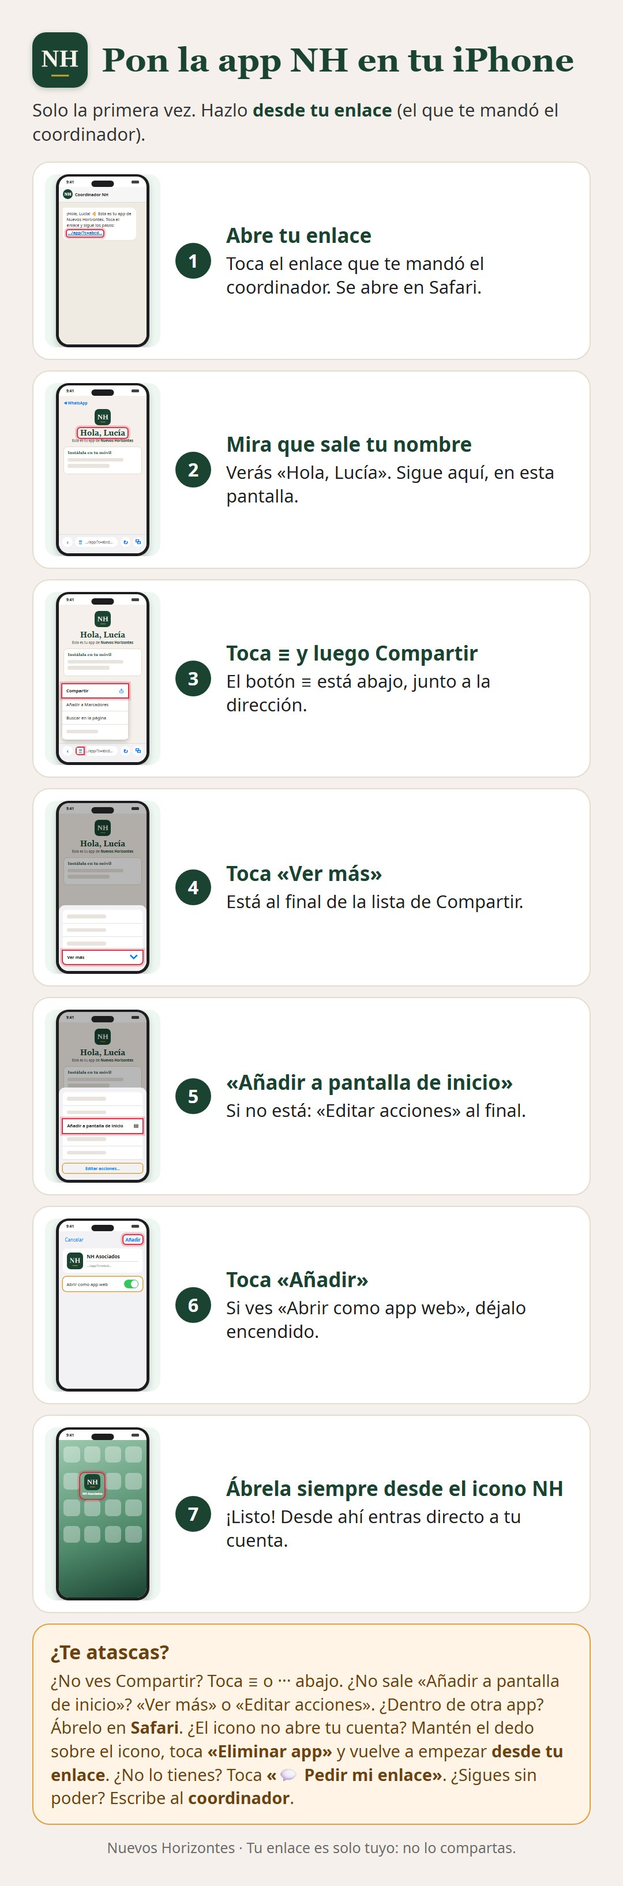
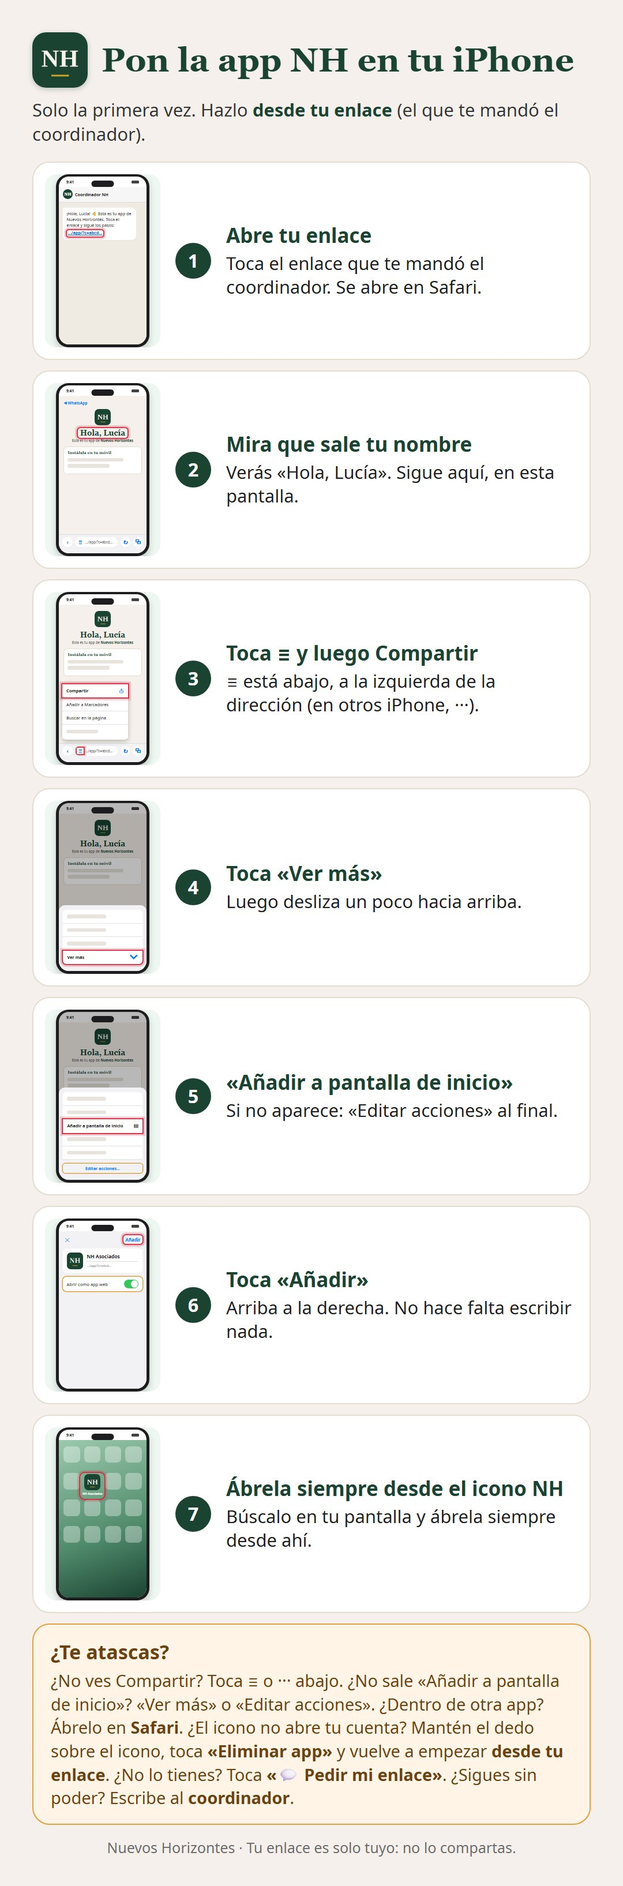
v46.62 — Pasos de instalar en iPhone según la grabación real (solo textos)
- Paso 1: ≡ abajo, a la izquierda de la dirección (en otros iPhone, ···).
- Paso 2: tras «Ver más», desliza un poco hacia arriba.
- Paso 3: «Añadir» arriba a la derecha, sin escribir nada; luego busca el icono NH Asociados.
- WhatsApp del enlace: «(si no salen, toca «Ponla en tu móvil»)».
- app/instalar/iphone.jpg con la lámina nueva. Sin cambios de lógica.

diff --git a/js/datos.js b/js/datos.js
@@ -6,7 +6,7 @@ const MONTHS=["Ene","Feb","Mar","Abr","May","Jun","Jul","Ago","Sep","Oct","Nov",
 const MONTHS_FULL=["Enero","Febrero","Marzo","Abril","Mayo","Junio","Julio","Agosto","Septiembre","Octubre","Noviembre","Diciembre"];
 const YEARS=[2025,2026,2027,2028];
 const DATA_VERSION=11; // versión del esquema/datos; independiente de APP_VERSION
-const APP_VERSION="v46.61"; // v46.61 (retoques de «Instálala en tu móvil», 19/11/2026; textos iguales a las tarjetas): pasos cortos, como mucho 2 frases (iPhone: ··· → Compartir; «Añadir a pantalla de inicio» o «Editar acciones»; «si ves Abrir como app web, déjalo encendido» y «Añadir». Android: ⋮ → «Instalar y crear acceso directo» (o «Instalar aplicación») → «Instalar»); lo excepcional en el bloque «¿Te atascas?» (nhaAtascoHTML, con Samsung Internet); el botón verde de Android, debajo, como atajo; Chrome en iPhone ya no recibe «Abrir en Safari» (sin CriOS, retoque 3). Prueba real en iPhone (19/11, iOS 27.2.1): WhatsApp abre en Safari; la barra de Safari tiene ≡ y Compartir pide «Ver más» → pasos de iPhone al día; el aviso «Abrir en Safari» solo si el navegador no es Safari y la app no está instalada (retoque 4, solo para el aviso), y en Safari «¿No ves los botones? Están en la barra de abajo: toca ≡ o ···»; los avisos breves de la app de asociados salen abajo (tapaban «Hola, …»). Antes: v46.60 // v46.60 (encargo «instalación de la app de asociados», 19/11/2026): «Ver cómo instalarla» y los pasos de la bienvenida se ven en la MISMA pantalla (hoja nhaInstPanelHTML, app/app.js): antes llevaban a instalar/, sin el código, y el icono creado desde allí no abría la cuenta. Pasos solo del móvil de cada uno (nhaPasosHTML): iPhone ··· → Compartir → «Añadir a pantalla de inicio» → Añadir, con una flecha animada hacia los botones de Safari; Android, camino principal ⋮ → «Instalar aplicación» → Instalar (el botón verde solo si Chrome lo ofrece: su aviso automático necesita un service worker, regla crítica 4). Aviso «¿No ves cómo instalarla? Toca ··· / ⋮ y elige Abrir en Safari / Chrome». Al abrir desde el icono: «✅ Tu app está lista» la primera vez; sin código, cómo arreglarlo (iPhone: borrar el icono y reinstalar desde el enlace; Android: abrir una vez el enlace en Chrome). instalar/ avisa de que desde ahí no se instala. Antes: v46.59 // v46.59 (Ángel 18/11/2026 20:01 y 20:03: las dos apps se adaptan solas a cualquier pantalla y letra): cuadro «Puedes pedir hoy» del simulador con el título en una línea, «Permanencia» y «Aporte» con el dato debajo, en verde «Puedes pedir · Cuotas · Cada cuota» cada dato bajo su nombre y «Terminas de pagar en …»; filas «nombre · dato» que bajan de línea, nombres y pestañas sin cortar, botones que pasan a la línea siguiente y cifras grandes con clamp() (css/nh.css y app/app.css, bloque «DISEÑO QUE SE ADAPTA SOLO»); verificar_app.js con la prueba obligatoria «pantallas y letra» (320, 375, 430 y 768 px; letra normal y +30 %). Sin cambios de cálculos. Además (Ángel 20:08): en el paso 3 del simulador, campo para escribir la cantidad exacta con − y + de 50 en 50 y teclado numérico (simgEscribe, simgPaso; si pasa de su límite, «Para X € puedes:»); botones de importe y de cuotas de 48 px y foco visible; el resultado y el cuadro «Puedes pedir hoy» se anuncian al lector de pantalla (aria-live, _simgAnunciar). Antes: v46.58 // v46.58 (encargo «ajustes-simulador-ayuda», Maestro v18.84): 12 meses con 100 € o más, hasta 11 cuotas (REGLAS.CUOTAS_12_100; con 12 meses nunca caben 12, AY-1 y AY-3); simulador guiado: el paso 3 arranca en lo que puede pedir hoy con sus cuotas máximas, el cuadro verde no repite la cifra mientras la permanencia y el aporte son los suyos («Cambia la permanencia o el aporte y mira hasta dónde llegas») y avisa «Esta ayuda la revisa antes el coordinador» por encima de 1.000 € o de 12 cuotas (AY-5); Asociado Libre con 500 € y 5 cuotas (limiteAyudaDe/cuotasMaxDe, _simgFuera; antes salía con 700 €); app de asociados: la cifra en el botón «¿Cuánto puedo pedir?» de Inicio (nhaPedirBotonHTML) y más espacio bajo el contenido (la barra de abajo tapaba el último botón con la letra grande del iPhone). Antes: v46.57 // v46.57 (ficha «aviso-nombre-repetido-asociado», opción C, y vuelta tras salir, SA-6/SA-8): el alta no crea a nadie con el nombre de otra persona (asociado o tercero; mismo criterio que la auditoría, control 7, y que al renombrar); aviso en el formulario, sin confirm(): asociado ↔ tercero sigue con «Convertir en asociado»; quien salió y ya cobró su salida puede volver con «Darle de alta de nuevo» (dos toques): ficha nueva y la antigua pasa a «Nombre (salió mmm. aaaa)» con todo su historial; con la salida sin pagar no se crea nada (_altaCoincide, js/personas.js). Antes: v46.56 // v46.56 (Maestro v18.82 · AY-10, AY-5, AY-8, encargo «Tu ayuda crece con tu aporte»): límite y cuotas según permanencia y aporte (limiteAyudaCon, cuotasMaxCon, aporteQueCuenta en js/reglas.js; js/maestro.js VECES_*, CUOTAS_*, tope 2.000 €, cuotas máx. 15, aviso de aprobación por encima de 1.000 € o 12 cuotas); compromiso de mantener el aporte (aporteAlto); una sola ayuda como tercero (solicitudes desde el 01/12/2026); simulador guiado en las dos apps (simGuiadoHTML, js/ayudas.js; «Quiero…» solo en la de asociados; terceros con «Sin asociarme»); fuera la tarjeta «Dos llaves» y la palabra «llave»; info/ con la tabla nueva. Antes: v46.55 // v46.55 (Maestro v18.80 · AY-9, encargo «lista de espera», 2.ª parte): app de asociados, tarjeta «Tu solicitud de ayuda» en Inicio (nhaSolicitudHTML, app/app.js; vista previa «Asociado» y «AsociadoSiguiente»): importe, cuotas y cómo va (la pediste · el coordinador la ha apuntado · «En espera: cuando esté lista, te avisamos por WhatsApp»; si pasó de mes, etiqueta «Sigue en la lista» y «Sigue en la lista, de las primeras: no tienes que pedirla otra vez»; si no se otorga, la tarjeta desaparece: textos de Ángel del 17/11/2026, sin fechas ni hablar de falta de dinero); nunca su puesto ni las de otros. «Cambiar o anular mi solicitud» envía una petición (tipo solicitud); en tu app llega a Ayudas («Cambios pedidos en solicitudes», Aplicar / No; solo si la solicitud es de quien lo pide y el cambio pasa validarApoyo; so.camUlt, so.anulada). La ficha privada lleva de su solicitud pedida, historial (mes, a, motivo), camUlt y anulada. Reglas de Firebase v46.55. // v46.54 (Maestro v18.80 · AY-9, encargo «lista de espera», 1.ª parte): Ayudas › Solicitudes: botón «Otorgar las N que alcanzan» (resumen con quién, cuánto, cuotas y quién entrega; las de más de 1.000 € marcadas como aprobación AY-5; dos toques; registra cada una con registrarAyudaAprobada, lo mismo que «Otorgar»; ids de ayuda únicos aunque se registren seguidas); en la que no alcanza, «Pasar a <mes siguiente>» (la primera de su grupo, con su fecha original y so.historial) y «Aporte temporal» (elige quién lo pone y abre el aporte puntual con lo que falta; límites de AT-1, 100–2.000 €, antes 500–3.000); «Lo que se queda sin atender» (este mes y media de hasta 3 meses). Las peticiones de la app guardan la fecha en que se pidieron (pedida). // v46.53 (Maestro v18.77 · AY-10, encargo «Dos llaves», 2.ª parte): app de asociados, tarjeta «🔑 Dos llaves» en Inicio (nhaDosLlavesHTML, app/app.js): su límite de hoy, qué llave tiene, la tabla 500 / 1.000 / 2.000 € con «Tú hoy» y solo los botones de lo que le falta («Quiero pasar a 24 meses», «Quiero subir mi aporte a 100 €»), que envían una petición (tipo perm / aporte) con dos toques; lo pedido se recuerda hasta que llega la respuesta (m.cambioUlt). Sin opción de bajar el aporte (se habla con el coordinador, AP-4). Las preguntas frecuentes dicen las tres filas de las dos llaves (en la v46.52 decían 2.000 € para todos con 24 o 36 meses). // v46.52 (Maestro v18.75 · AY-10, encargo «Dos llaves», 1.ª parte): las dos llaves. Límite de una ayuda a un asociado: 500 € con 12 meses, 1.000 € con 24/36/indefinida, 2.000 € con además aporte habitual de 100 € o más y el último mes pagado a 100 € (limiteAyudaDe, tieneLlave2; tope 2.000 €, antes 3.000 €). validarApoyo y la auditoría lo aplican; la ayuda guarda aporteEnConcesion y llave2 (AY-2). Solicitudes propone el orden por aporte habitual (AY-9; ▲▼ sigue mandando). Inicio: «🔑 Dos llaves · cambios pedidos» (aporte y permanencia pedidos desde la app, Aprobar / No aprobar; m.cambioUlt). No deja bajar el aporte con una ayuda de más de 1.000 € con la llave 2 sin terminar; el cierre avisa si ese mes paga menos de 100 € (decide el coordinador). Simulador: barra hasta 2.000 € con las dos llaves (1.000 € los demás) y límites de cada persona. // v46.51: corrección urgente — la app de asociados no abría desde la v46.50 (se quedaba en «Cargando tu cuenta…»): render() llamaba a _usoTick (js/torre.js) y la app de asociados no cargaba ese archivo. Ahora lo carga (app/app.js) y las dos llamadas del registro de uso (render y save) están protegidas por si faltara. Sin cambios en datos, cálculos ni reglas. // v46.50 (Maestro v18.73 · FO-8): pestaña «Torre de control» (Más, y una línea de estado en Inicio que
+const APP_VERSION="v46.62"; // v46.62 (19/11/2026, grabación del iPhone de Ángel): solo textos de los 3 pasos de iPhone (≡ a la izquierda de la dirección, «desliza un poco hacia arriba», «Añadir» arriba a la derecha) y en el WhatsApp del enlace «(si no salen, toca «Ponla en tu móvil»)». // v46.61 (retoques de «Instálala en tu móvil», 19/11/2026; textos iguales a las tarjetas): pasos cortos, como mucho 2 frases (iPhone: ··· → Compartir; «Añadir a pantalla de inicio» o «Editar acciones»; «si ves Abrir como app web, déjalo encendido» y «Añadir». Android: ⋮ → «Instalar y crear acceso directo» (o «Instalar aplicación») → «Instalar»); lo excepcional en el bloque «¿Te atascas?» (nhaAtascoHTML, con Samsung Internet); el botón verde de Android, debajo, como atajo; Chrome en iPhone ya no recibe «Abrir en Safari» (sin CriOS, retoque 3). Prueba real en iPhone (19/11, iOS 27.2.1): WhatsApp abre en Safari; la barra de Safari tiene ≡ y Compartir pide «Ver más» → pasos de iPhone al día; el aviso «Abrir en Safari» solo si el navegador no es Safari y la app no está instalada (retoque 4, solo para el aviso), y en Safari «¿No ves los botones? Están en la barra de abajo: toca ≡ o ···»; los avisos breves de la app de asociados salen abajo (tapaban «Hola, …»). Antes: v46.60 // v46.60 (encargo «instalación de la app de asociados», 19/11/2026): «Ver cómo instalarla» y los pasos de la bienvenida se ven en la MISMA pantalla (hoja nhaInstPanelHTML, app/app.js): antes llevaban a instalar/, sin el código, y el icono creado desde allí no abría la cuenta. Pasos solo del móvil de cada uno (nhaPasosHTML): iPhone ··· → Compartir → «Añadir a pantalla de inicio» → Añadir, con una flecha animada hacia los botones de Safari; Android, camino principal ⋮ → «Instalar aplicación» → Instalar (el botón verde solo si Chrome lo ofrece: su aviso automático necesita un service worker, regla crítica 4). Aviso «¿No ves cómo instalarla? Toca ··· / ⋮ y elige Abrir en Safari / Chrome». Al abrir desde el icono: «✅ Tu app está lista» la primera vez; sin código, cómo arreglarlo (iPhone: borrar el icono y reinstalar desde el enlace; Android: abrir una vez el enlace en Chrome). instalar/ avisa de que desde ahí no se instala. Antes: v46.59 // v46.59 (Ángel 18/11/2026 20:01 y 20:03: las dos apps se adaptan solas a cualquier pantalla y letra): cuadro «Puedes pedir hoy» del simulador con el título en una línea, «Permanencia» y «Aporte» con el dato debajo, en verde «Puedes pedir · Cuotas · Cada cuota» cada dato bajo su nombre y «Terminas de pagar en …»; filas «nombre · dato» que bajan de línea, nombres y pestañas sin cortar, botones que pasan a la línea siguiente y cifras grandes con clamp() (css/nh.css y app/app.css, bloque «DISEÑO QUE SE ADAPTA SOLO»); verificar_app.js con la prueba obligatoria «pantallas y letra» (320, 375, 430 y 768 px; letra normal y +30 %). Sin cambios de cálculos. Además (Ángel 20:08): en el paso 3 del simulador, campo para escribir la cantidad exacta con − y + de 50 en 50 y teclado numérico (simgEscribe, simgPaso; si pasa de su límite, «Para X € puedes:»); botones de importe y de cuotas de 48 px y foco visible; el resultado y el cuadro «Puedes pedir hoy» se anuncian al lector de pantalla (aria-live, _simgAnunciar). Antes: v46.58 // v46.58 (encargo «ajustes-simulador-ayuda», Maestro v18.84): 12 meses con 100 € o más, hasta 11 cuotas (REGLAS.CUOTAS_12_100; con 12 meses nunca caben 12, AY-1 y AY-3); simulador guiado: el paso 3 arranca en lo que puede pedir hoy con sus cuotas máximas, el cuadro verde no repite la cifra mientras la permanencia y el aporte son los suyos («Cambia la permanencia o el aporte y mira hasta dónde llegas») y avisa «Esta ayuda la revisa antes el coordinador» por encima de 1.000 € o de 12 cuotas (AY-5); Asociado Libre con 500 € y 5 cuotas (limiteAyudaDe/cuotasMaxDe, _simgFuera; antes salía con 700 €); app de asociados: la cifra en el botón «¿Cuánto puedo pedir?» de Inicio (nhaPedirBotonHTML) y más espacio bajo el contenido (la barra de abajo tapaba el último botón con la letra grande del iPhone). Antes: v46.57 // v46.57 (ficha «aviso-nombre-repetido-asociado», opción C, y vuelta tras salir, SA-6/SA-8): el alta no crea a nadie con el nombre de otra persona (asociado o tercero; mismo criterio que la auditoría, control 7, y que al renombrar); aviso en el formulario, sin confirm(): asociado ↔ tercero sigue con «Convertir en asociado»; quien salió y ya cobró su salida puede volver con «Darle de alta de nuevo» (dos toques): ficha nueva y la antigua pasa a «Nombre (salió mmm. aaaa)» con todo su historial; con la salida sin pagar no se crea nada (_altaCoincide, js/personas.js). Antes: v46.56 // v46.56 (Maestro v18.82 · AY-10, AY-5, AY-8, encargo «Tu ayuda crece con tu aporte»): límite y cuotas según permanencia y aporte (limiteAyudaCon, cuotasMaxCon, aporteQueCuenta en js/reglas.js; js/maestro.js VECES_*, CUOTAS_*, tope 2.000 €, cuotas máx. 15, aviso de aprobación por encima de 1.000 € o 12 cuotas); compromiso de mantener el aporte (aporteAlto); una sola ayuda como tercero (solicitudes desde el 01/12/2026); simulador guiado en las dos apps (simGuiadoHTML, js/ayudas.js; «Quiero…» solo en la de asociados; terceros con «Sin asociarme»); fuera la tarjeta «Dos llaves» y la palabra «llave»; info/ con la tabla nueva. Antes: v46.55 // v46.55 (Maestro v18.80 · AY-9, encargo «lista de espera», 2.ª parte): app de asociados, tarjeta «Tu solicitud de ayuda» en Inicio (nhaSolicitudHTML, app/app.js; vista previa «Asociado» y «AsociadoSiguiente»): importe, cuotas y cómo va (la pediste · el coordinador la ha apuntado · «En espera: cuando esté lista, te avisamos por WhatsApp»; si pasó de mes, etiqueta «Sigue en la lista» y «Sigue en la lista, de las primeras: no tienes que pedirla otra vez»; si no se otorga, la tarjeta desaparece: textos de Ángel del 17/11/2026, sin fechas ni hablar de falta de dinero); nunca su puesto ni las de otros. «Cambiar o anular mi solicitud» envía una petición (tipo solicitud); en tu app llega a Ayudas («Cambios pedidos en solicitudes», Aplicar / No; solo si la solicitud es de quien lo pide y el cambio pasa validarApoyo; so.camUlt, so.anulada). La ficha privada lleva de su solicitud pedida, historial (mes, a, motivo), camUlt y anulada. Reglas de Firebase v46.55. // v46.54 (Maestro v18.80 · AY-9, encargo «lista de espera», 1.ª parte): Ayudas › Solicitudes: botón «Otorgar las N que alcanzan» (resumen con quién, cuánto, cuotas y quién entrega; las de más de 1.000 € marcadas como aprobación AY-5; dos toques; registra cada una con registrarAyudaAprobada, lo mismo que «Otorgar»; ids de ayuda únicos aunque se registren seguidas); en la que no alcanza, «Pasar a <mes siguiente>» (la primera de su grupo, con su fecha original y so.historial) y «Aporte temporal» (elige quién lo pone y abre el aporte puntual con lo que falta; límites de AT-1, 100–2.000 €, antes 500–3.000); «Lo que se queda sin atender» (este mes y media de hasta 3 meses). Las peticiones de la app guardan la fecha en que se pidieron (pedida). // v46.53 (Maestro v18.77 · AY-10, encargo «Dos llaves», 2.ª parte): app de asociados, tarjeta «🔑 Dos llaves» en Inicio (nhaDosLlavesHTML, app/app.js): su límite de hoy, qué llave tiene, la tabla 500 / 1.000 / 2.000 € con «Tú hoy» y solo los botones de lo que le falta («Quiero pasar a 24 meses», «Quiero subir mi aporte a 100 €»), que envían una petición (tipo perm / aporte) con dos toques; lo pedido se recuerda hasta que llega la respuesta (m.cambioUlt). Sin opción de bajar el aporte (se habla con el coordinador, AP-4). Las preguntas frecuentes dicen las tres filas de las dos llaves (en la v46.52 decían 2.000 € para todos con 24 o 36 meses). // v46.52 (Maestro v18.75 · AY-10, encargo «Dos llaves», 1.ª parte): las dos llaves. Límite de una ayuda a un asociado: 500 € con 12 meses, 1.000 € con 24/36/indefinida, 2.000 € con además aporte habitual de 100 € o más y el último mes pagado a 100 € (limiteAyudaDe, tieneLlave2; tope 2.000 €, antes 3.000 €). validarApoyo y la auditoría lo aplican; la ayuda guarda aporteEnConcesion y llave2 (AY-2). Solicitudes propone el orden por aporte habitual (AY-9; ▲▼ sigue mandando). Inicio: «🔑 Dos llaves · cambios pedidos» (aporte y permanencia pedidos desde la app, Aprobar / No aprobar; m.cambioUlt). No deja bajar el aporte con una ayuda de más de 1.000 € con la llave 2 sin terminar; el cierre avisa si ese mes paga menos de 100 € (decide el coordinador). Simulador: barra hasta 2.000 € con las dos llaves (1.000 € los demás) y límites de cada persona. // v46.51: corrección urgente — la app de asociados no abría desde la v46.50 (se quedaba en «Cargando tu cuenta…»): render() llamaba a _usoTick (js/torre.js) y la app de asociados no cargaba ese archivo. Ahora lo carga (app/app.js) y las dos llamadas del registro de uso (render y save) están protegidas por si faltara. Sin cambios en datos, cálculos ni reglas. // v46.50 (Maestro v18.73 · FO-8): pestaña «Torre de control» (Más, y una línea de estado en Inicio que
 // también la abre): el resumen nocturno del revisor (cómo está todo, versiones, avisos del mes, bandeja de propuestas con
 // Aprobar/Descartar/Más tarde, último informe mensual), leído de torre/resumen; si todavía no hay resumen o no se puede leer,
 // dice «Sin datos de la Torre todavía» en vez de fallar. Registro de uso (punto 5 del encargo, aprobado): pantalla, hora,

diff --git a/app/index.html b/app/index.html
@@ -16,8 +16,8 @@
 <meta name="theme-color" content="#F5F0EB">
[2 lines of base64/hex data omitted]
-<link rel="stylesheet" href="../css/nh.css?v=46.61">
-<link rel="stylesheet" href="app.css?v=46.61">
+<link rel="stylesheet" href="../css/nh.css?v=46.62">
+<link rel="stylesheet" href="app.css?v=46.62">
 </head>
 <body class="nh-app">
 <!-- App de asociados (v45.52). Cada persona entra con su enlace: app/?c=CÓDIGO.
@@ -26,10 +26,10 @@
 <div id="devModeBanner" class="dev-mode-banner" role="alert">MODO DESARROLLO — PRODUCCIÓN BLOQUEADA</div>
 <div id="toast" class="toast hidden"></div>
 <div id="app"><div class="nha-cargando"><div class="nha-logo nha-luz"><span>NH</span></div><div>Cargando tu cuenta…</div></div></div>
-<script>window.NH_ES_APP_ASOCIADOS=true; window.NH_APP_V="46.61";</script>
+<script>window.NH_ES_APP_ASOCIADOS=true; window.NH_APP_V="46.62";</script>
 <script src="https://www.gstatic.com/firebasejs/10.11.0/firebase-app-compat.js"></script>
 <script src="https://www.gstatic.com/firebasejs/10.11.0/firebase-firestore-compat.js"></script>
-<script src="../js/firebase.js?v=46.61"></script>
-<script src="app.js?v=46.61"></script>
+<script src="../js/firebase.js?v=46.62"></script>
+<script src="app.js?v=46.62"></script>
 </body>
 </html>

diff --git a/index.html b/index.html
@@ -12,7 +12,7 @@
 <meta name="apple-mobile-web-app-title" content="NH Reportes">
 <meta name="theme-color" content="#1B4332">
[1 lines of base64/hex data omitted]
-<link rel="stylesheet" href="css/nh.css?v=46.61">
+<link rel="stylesheet" href="css/nh.css?v=46.62">
 </head>
 <body>
 <div id="devModeBanner" class="dev-mode-banner" role="alert">
@@ -44,25 +44,25 @@
 <script src="https://www.gstatic.com/firebasejs/10.11.0/firebase-app-compat.js"></script>
 <script src="https://www.gstatic.com/firebasejs/10.11.0/firebase-firestore-compat.js"></script>
 <script src="https://www.gstatic.com/firebasejs/10.11.0/firebase-auth-compat.js"></script>
-<script src="js/firebase.js?v=46.61"></script>
+<script src="js/firebase.js?v=46.62"></script>
 
-<script src="js/maestro.js?v=46.61"></script>
-<script src="js/utilidades.js?v=46.61"></script>
-<script src="js/datos.js?v=46.61"></script>
-<script src="js/reglas.js?v=46.61"></script>
-<script src="js/iconos.js?v=46.61"></script>
-<script src="js/general.js?v=46.61"></script>
-<script src="js/cierre.js?v=46.61"></script>
-<script src="js/grupos.js?v=46.61"></script>
-<script src="js/documentos.js?v=46.61"></script>
-<script src="js/personas.js?v=46.61"></script>
-<script src="js/ayudas.js?v=46.61"></script>
-<script src="js/fichas.js?v=46.61"></script>
-<script src="js/torre.js?v=46.61"></script>
-<script src="js/gestion.js?v=46.61"></script>
-<script src="js/enlaces.js?v=46.61"></script>
-<script src="js/inicio.js?v=46.61"></script>
-<script src="js/arranque.js?v=46.61"></script>
+<script src="js/maestro.js?v=46.62"></script>
+<script src="js/utilidades.js?v=46.62"></script>
+<script src="js/datos.js?v=46.62"></script>
+<script src="js/reglas.js?v=46.62"></script>
+<script src="js/iconos.js?v=46.62"></script>
+<script src="js/general.js?v=46.62"></script>
+<script src="js/cierre.js?v=46.62"></script>
+<script src="js/grupos.js?v=46.62"></script>
+<script src="js/documentos.js?v=46.62"></script>
+<script src="js/personas.js?v=46.62"></script>
+<script src="js/ayudas.js?v=46.62"></script>
+<script src="js/fichas.js?v=46.62"></script>
+<script src="js/torre.js?v=46.62"></script>
+<script src="js/gestion.js?v=46.62"></script>
+<script src="js/enlaces.js?v=46.62"></script>
+<script src="js/inicio.js?v=46.62"></script>
+<script src="js/arranque.js?v=46.62"></script>
 
 <!-- ============================================================ -->
 <!-- DETECTOR DE ACTUALIZACIONES AUTOMÁTICAS                      -->
@@ -71,6 +71,6 @@
 <!-- Si la detecta, muestra un banner para que Xavy pueda actualizar -->
 <!-- Funciona en iPhone como PWA sin necesidad de service worker   -->
 <!-- ============================================================ -->
-<script src="js/aviso-version.js?v=46.61"></script>
+<script src="js/aviso-version.js?v=46.62"></script>
 </body>
 </html>

diff --git a/app/app.js b/app/app.js
@@ -791,9 +791,9 @@ function nhaPasosHTML(so){
   const s=nhaSistema(), paso=(n,ic,t,cls)=>`<div class="nha-paso"><div class="nha-paso-n">${n}</div><div class="nha-paso-t">${t}</div>${ic?`<div class="nha-paso-ic${cls?" "+cls:""}">${ic}</div>`:""}</div>`;
   const icono=`<span class="nha-mini-logo">NH</span>`;
   if(so==="ios")return `<div class="nha-so">📱 iPhone</div>`
-    +paso(1,NHA_SVG.menu,`Toca el botón de abajo con tres rayas <b>≡</b> (o tres puntos <b>···</b>) y luego <b>Compartir</b>. Si ya ves <b>Compartir</b>, tócalo directamente.`,"nha-paso-ic-late")
-    +paso(2,NHA_SVG.mas,`Toca <b>«Ver más»</b> ${NHA_CHEV} y luego <b>«Añadir a pantalla de inicio»</b>. Si no está, al final de la lista toca <b>«Editar acciones»</b>.`)
-    +paso(3,icono,`Si ves <b>«Abrir como app web»</b>, déjalo encendido y toca <b>«Añadir»</b>. Ya tienes el icono <b>NH Asociados</b>: ábrela siempre desde ahí.`);
+    +paso(1,NHA_SVG.menu,`Toca <b>≡</b> (abajo, a la izquierda de la dirección; en otros iPhone es <b>···</b>) y luego <b>Compartir</b>. Si ya ves <b>Compartir</b>, tócalo directamente.`,"nha-paso-ic-late")
+    +paso(2,NHA_SVG.mas,`Toca <b>«Ver más»</b> ${NHA_CHEV}, desliza un poco hacia arriba y toca <b>«Añadir a pantalla de inicio»</b>. Si no aparece, al final de la lista toca <b>«Editar acciones»</b>.`)
+    +paso(3,icono,`Si ves <b>«Abrir como app web»</b>, déjalo encendido y toca <b>«Añadir»</b> arriba a la derecha (no hace falta escribir nada). Luego busca el icono <b>NH Asociados</b> en tu pantalla y ábrela siempre desde ahí.`);
   // Android: el menú ⋮ es el camino principal; el botón verde (si Chrome lo ofrece) va debajo, como atajo (retoque 5 adaptado)
   return `<div class="nha-so">📱 Android</div>`
     +(so==="android"&&s.samsung?paso(1,NHA_SVG.menu,`Toca el <b>menú ☰</b> (las tres rayas, abajo).`,"nha-paso-ic-late")+paso(2,NHA_SVG.mas,`Toca <b>«Añadir página a»</b> y luego <b>«Pantalla de inicio»</b>.`)

diff --git a/js/fichas.js b/js/fichas.js
@@ -425,7 +425,7 @@ function _appMensajeWA(m){
   // v46.34: mensaje corto. Los pasos para instalarla ya no van aquí (eran 24 líneas y prometían un botón que en Android
   // no siempre sale): se leen en la pantalla que se abre con el enlace, que enseña solo los del móvil de cada persona.
   const ve=m.type==="tercero"?"lo que te toca pagar cada mes y cómo va tu ayuda":"lo que te toca pagar cada mes, tus aportes y tus ayudas";
-  return `Hola ${nom} 👋\nEsta es tu *app de Nuevos Horizontes*. En ella ves ${ve}.\n\n👇 *Toca tu enlace* y sigue los 3 pasos que salen en la pantalla para dejar el icono *NH* en tu móvil:\n${enlaceAppDe(m)}\n\nEs solo tuyo: no lo compartas. Si te lías, escríbeme y lo hacemos juntos.\n\nNuevos Horizontes · Construyendo un nuevo sistema`;
+  return `Hola ${nom} 👋\nEsta es tu *app de Nuevos Horizontes*. En ella ves ${ve}.\n\n👇 *Toca tu enlace* y sigue los 3 pasos que salen en la pantalla para dejar el icono *NH* en tu móvil (si no salen, toca «Ponla en tu móvil»):\n${enlaceAppDe(m)}\n\nEs solo tuyo: no lo compartas. Si te lías, escríbeme y lo hacemos juntos.\n\nNuevos Horizontes · Construyendo un nuevo sistema`;
 }
 function _appEnviados(){ return (_appCfg().enviados)||{}; }
 // ══ v45.73 · TELÉFONOS DESDE LOS CONTACTOS DEL MÓVIL ═══════════════════════════════════════════

diff --git a/CLAUDE.md b/CLAUDE.md
@@ -308,3 +308,4 @@ push solo tras su «SÍ».
 - v46.59 (18/11/2026): diseño que se adapta solo (norma arriba). Simulador: cuadro «Puedes pedir hoy» con título en una línea, «Permanencia»/«Aporte» con el dato debajo y en verde «Puedes pedir · Cuotas · Cada cuota» (cada dato bajo su nombre) + «Terminas de pagar en …» (nota de Ángel de las 20:01). css/nh.css y app/app.css, bloque «DISEÑO QUE SE ADAPTA SOLO»: .pl-nom/.pl-meta, .ft-tabs/.ft-tab, .ft-row/.ft-val, .ini-fila, .cgt-btns, .nha-perm-top, .nha-nav-btn bajan de línea en vez de cortarse (antes solo con html.nh-letra-g). Paso 3 del simulador (Ángel 20:08): «Cantidad» arriba y una fila [−] [campo €] [+]: campo #simg-cap-in con teclado numérico (simgEscribe: mientras se escribe solo se repinta #simg-abajo, para no perder el teclado; simgFijaCampo sube a 100 € al salir), − / + de 50 en 50 (simgPaso), se puede escribir más del límite («Para X € puedes:», _simgCaminos); botones de importe y cuotas de 48 px, aria-pressed, foco visible naranja en #sim-guiado; anuncios al lector de pantalla en #nh-anuncio (aria-live, _simgAnunciar, _simgResumen y _simgResumenHoy al abrir «Puedes pedir hoy»). verificar_app.js: prueba obligatoria 3b (lib/pantallas_letra.js y lib/detector_desborde.js en NH Oficial\pruebas_app).
 - v46.60 (19/11/2026, encargo «instalación de la app de asociados»): los pasos de instalar se ven SIEMPRE en la misma pantalla del enlace (hoja nhaInstPanelHTML; bienvenida con nhaPasosHTML y nhaDibujoHTML), nunca en otra dirección: el icono guarda la dirección donde se pulsa «Añadir» y instalar/ no lleva el código. iPhone (sin manifest): ··· → Compartir → «Añadir a pantalla de inicio» → Añadir, flecha .nha-flecha hacia los botones de Safari. Android: camino principal ⋮ → «Instalar aplicación» → Instalar; el botón verde (beforeinstallprompt) solo sale si Chrome lo ofrece, y su aviso automático necesita un service worker (regla crítica 4: no hay). nhaAvisoAbrirFuera: «¿No ves cómo instalarla? Toca ··· / ⋮ y elige Abrir en Safari / Chrome». Al abrir desde el icono: nhaAvisoLista («✅ Tu app está lista», una vez, nha-lista-<código>); sin código, nhaError icono-ios (borrar y reinstalar desde el enlace) o icono-android (abrir una vez el enlace en Chrome). app/instalar/ avisa de que desde ahí no se instala (y, abierta desde un icono, que se borre). Fase 0 y pruebas en nh_pruebas\2026-11-19_instalacion.
 - v46.61 (19/11/2026, retoques de instalar 1, 2, 3 y 5; textos iguales a las tarjetas de nh_pruebas\2026-11-19_instalacion): pasos de como mucho 2 frases en nhaPasosHTML; lo excepcional (Chrome en iPhone, Safari/brújula, «Añadir a pantalla de inicio» en Android, Samsung Internet, WhatsApp, icono sin código) en nhaAtascoHTML («¿Te atascas?», desplegable); Android: ⋮ → «Instalar y crear acceso directo» (o «Instalar aplicación») → «Instalar» como camino principal y el botón verde debajo, como atajo (.nha-atajo); nhaSistema iPhone: chrome (CriOS) aparte de otra, y el aviso a Chrome dice dónde está Compartir. Prueba real en el iPhone de Ángel (iOS 27.2.1): WhatsApp abre el enlace en Safari; Safari tiene ≡ junto a la dirección (no ···) y en Compartir hay que tocar «Ver más»; 5 toques; el icono abre la cuenta. Por eso: pasos de iPhone con ≡ y «Ver más»; nhaSistema().dentro (userAgent sin «Safari», regla inspirada en inapp-spy, MIT) decide solo el aviso: «Abrir en Safari» si dentro y no instalada, si no «¿No ves los botones? Están en la barra de abajo: toca ≡ o ···»; body.nh-app .toast abajo; «⌄» de «Ver más» dibujado (NHA_CHEV: con la letra de la app el carácter salía como una «v»); «El icono no abre mi cuenta» de «¿Te atascas?» con los mismos pasos que la pantalla nhaError (iPhone: «Eliminar app»; los dos: «¿No lo tienes? Toca «💬 Pedir mi enlace»»), igual en tarjetas y láminas; app/instalar/iphone.jpg («dibujo grande») = lámina de iPhone de las tarjetas (la antigua, guardada en nh_pruebas\2026-11-19_instalacion). Android sin probar todavía: el dibujo grande de Android y la nota del service worker de la v46.60 se revisan con capturas reales de un asociado.
+- v46.62 (19/11/2026, grabación de la instalación en el iPhone de Ángel; solo textos, ninguna lógica): pasos de iPhone de nhaPasosHTML: 1 «Toca ≡ (abajo, a la izquierda de la dirección; en otros iPhone es ···) y luego Compartir…», 2 «Toca «Ver más» ⌄, desliza un poco hacia arriba y toca «Añadir a pantalla de inicio»…», 3 «… toca «Añadir» arriba a la derecha (no hace falta escribir nada). Luego busca el icono NH Asociados en tu pantalla…». _appMensajeWA (js/fichas.js): «(si no salen, toca «Ponla en tu móvil»)», para quien ya entró en Safari antes y reinstala: la bienvenida solo sale la primera vez (nha-bv-<código>; opción D2, sin tocar esa lógica). Tarjetas, láminas, PDF (nh_pruebas\2026-11-19_instalacion\tarjetas_v46.62) y app/instalar/iphone.jpg con los mismos textos.
